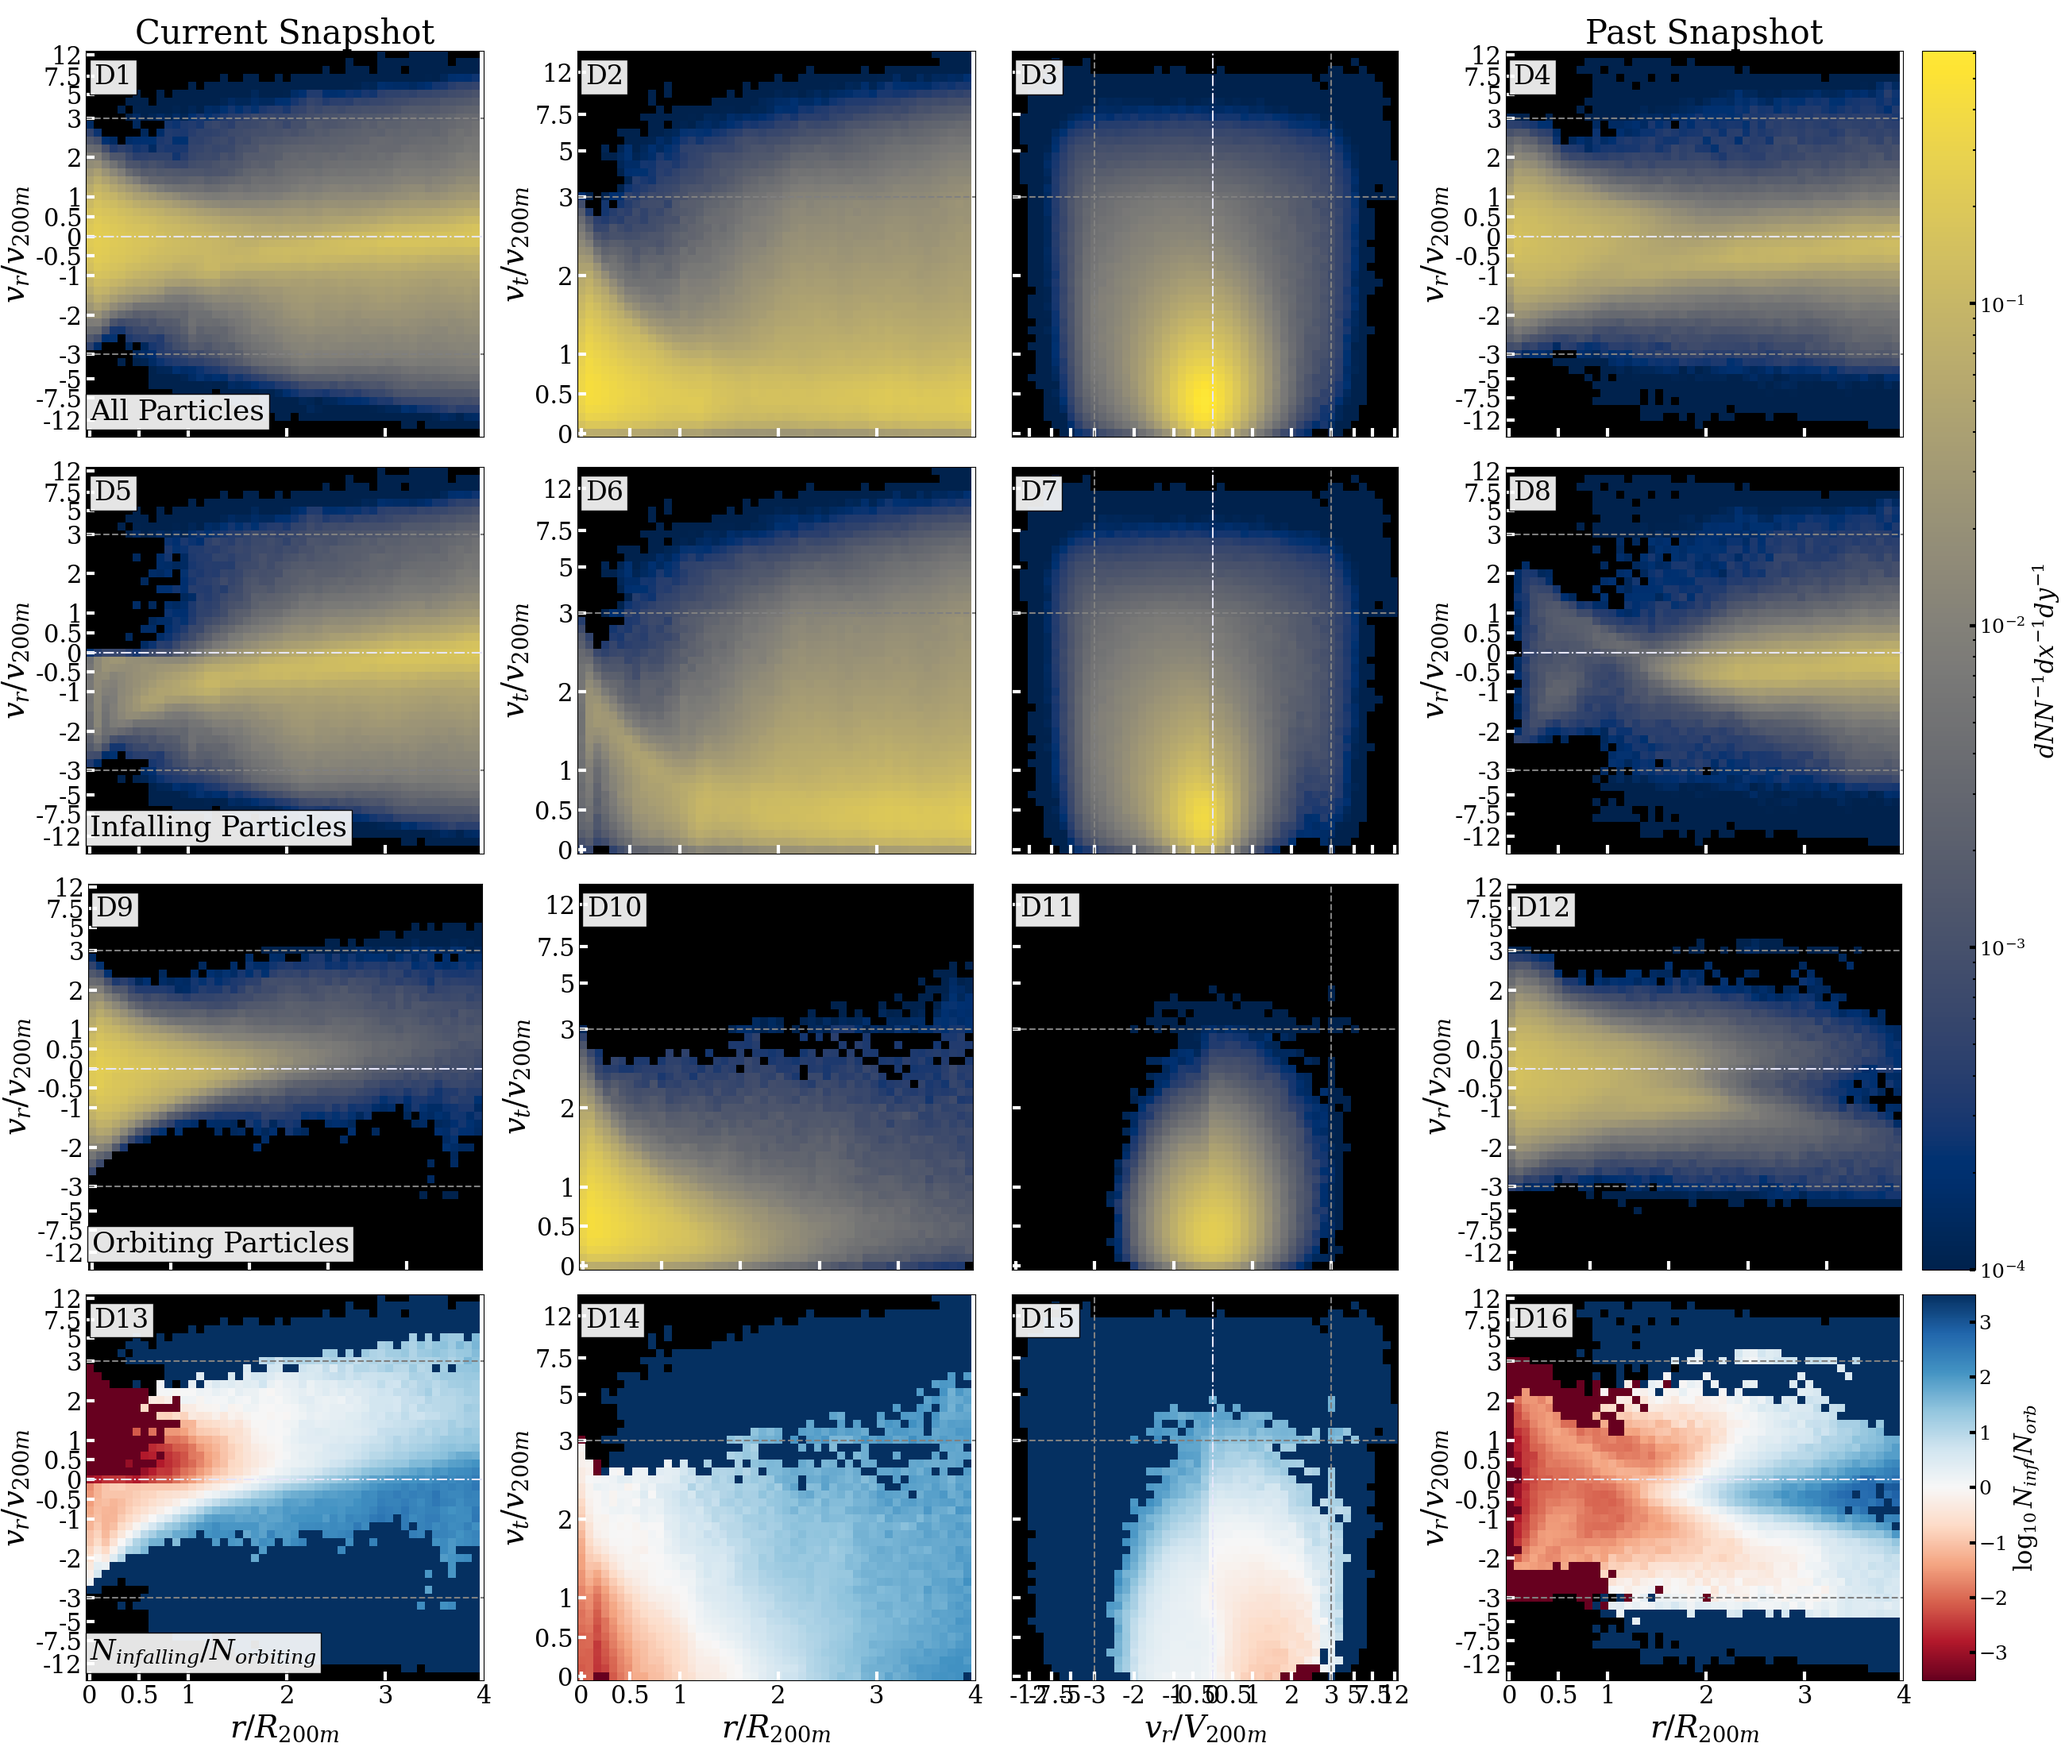
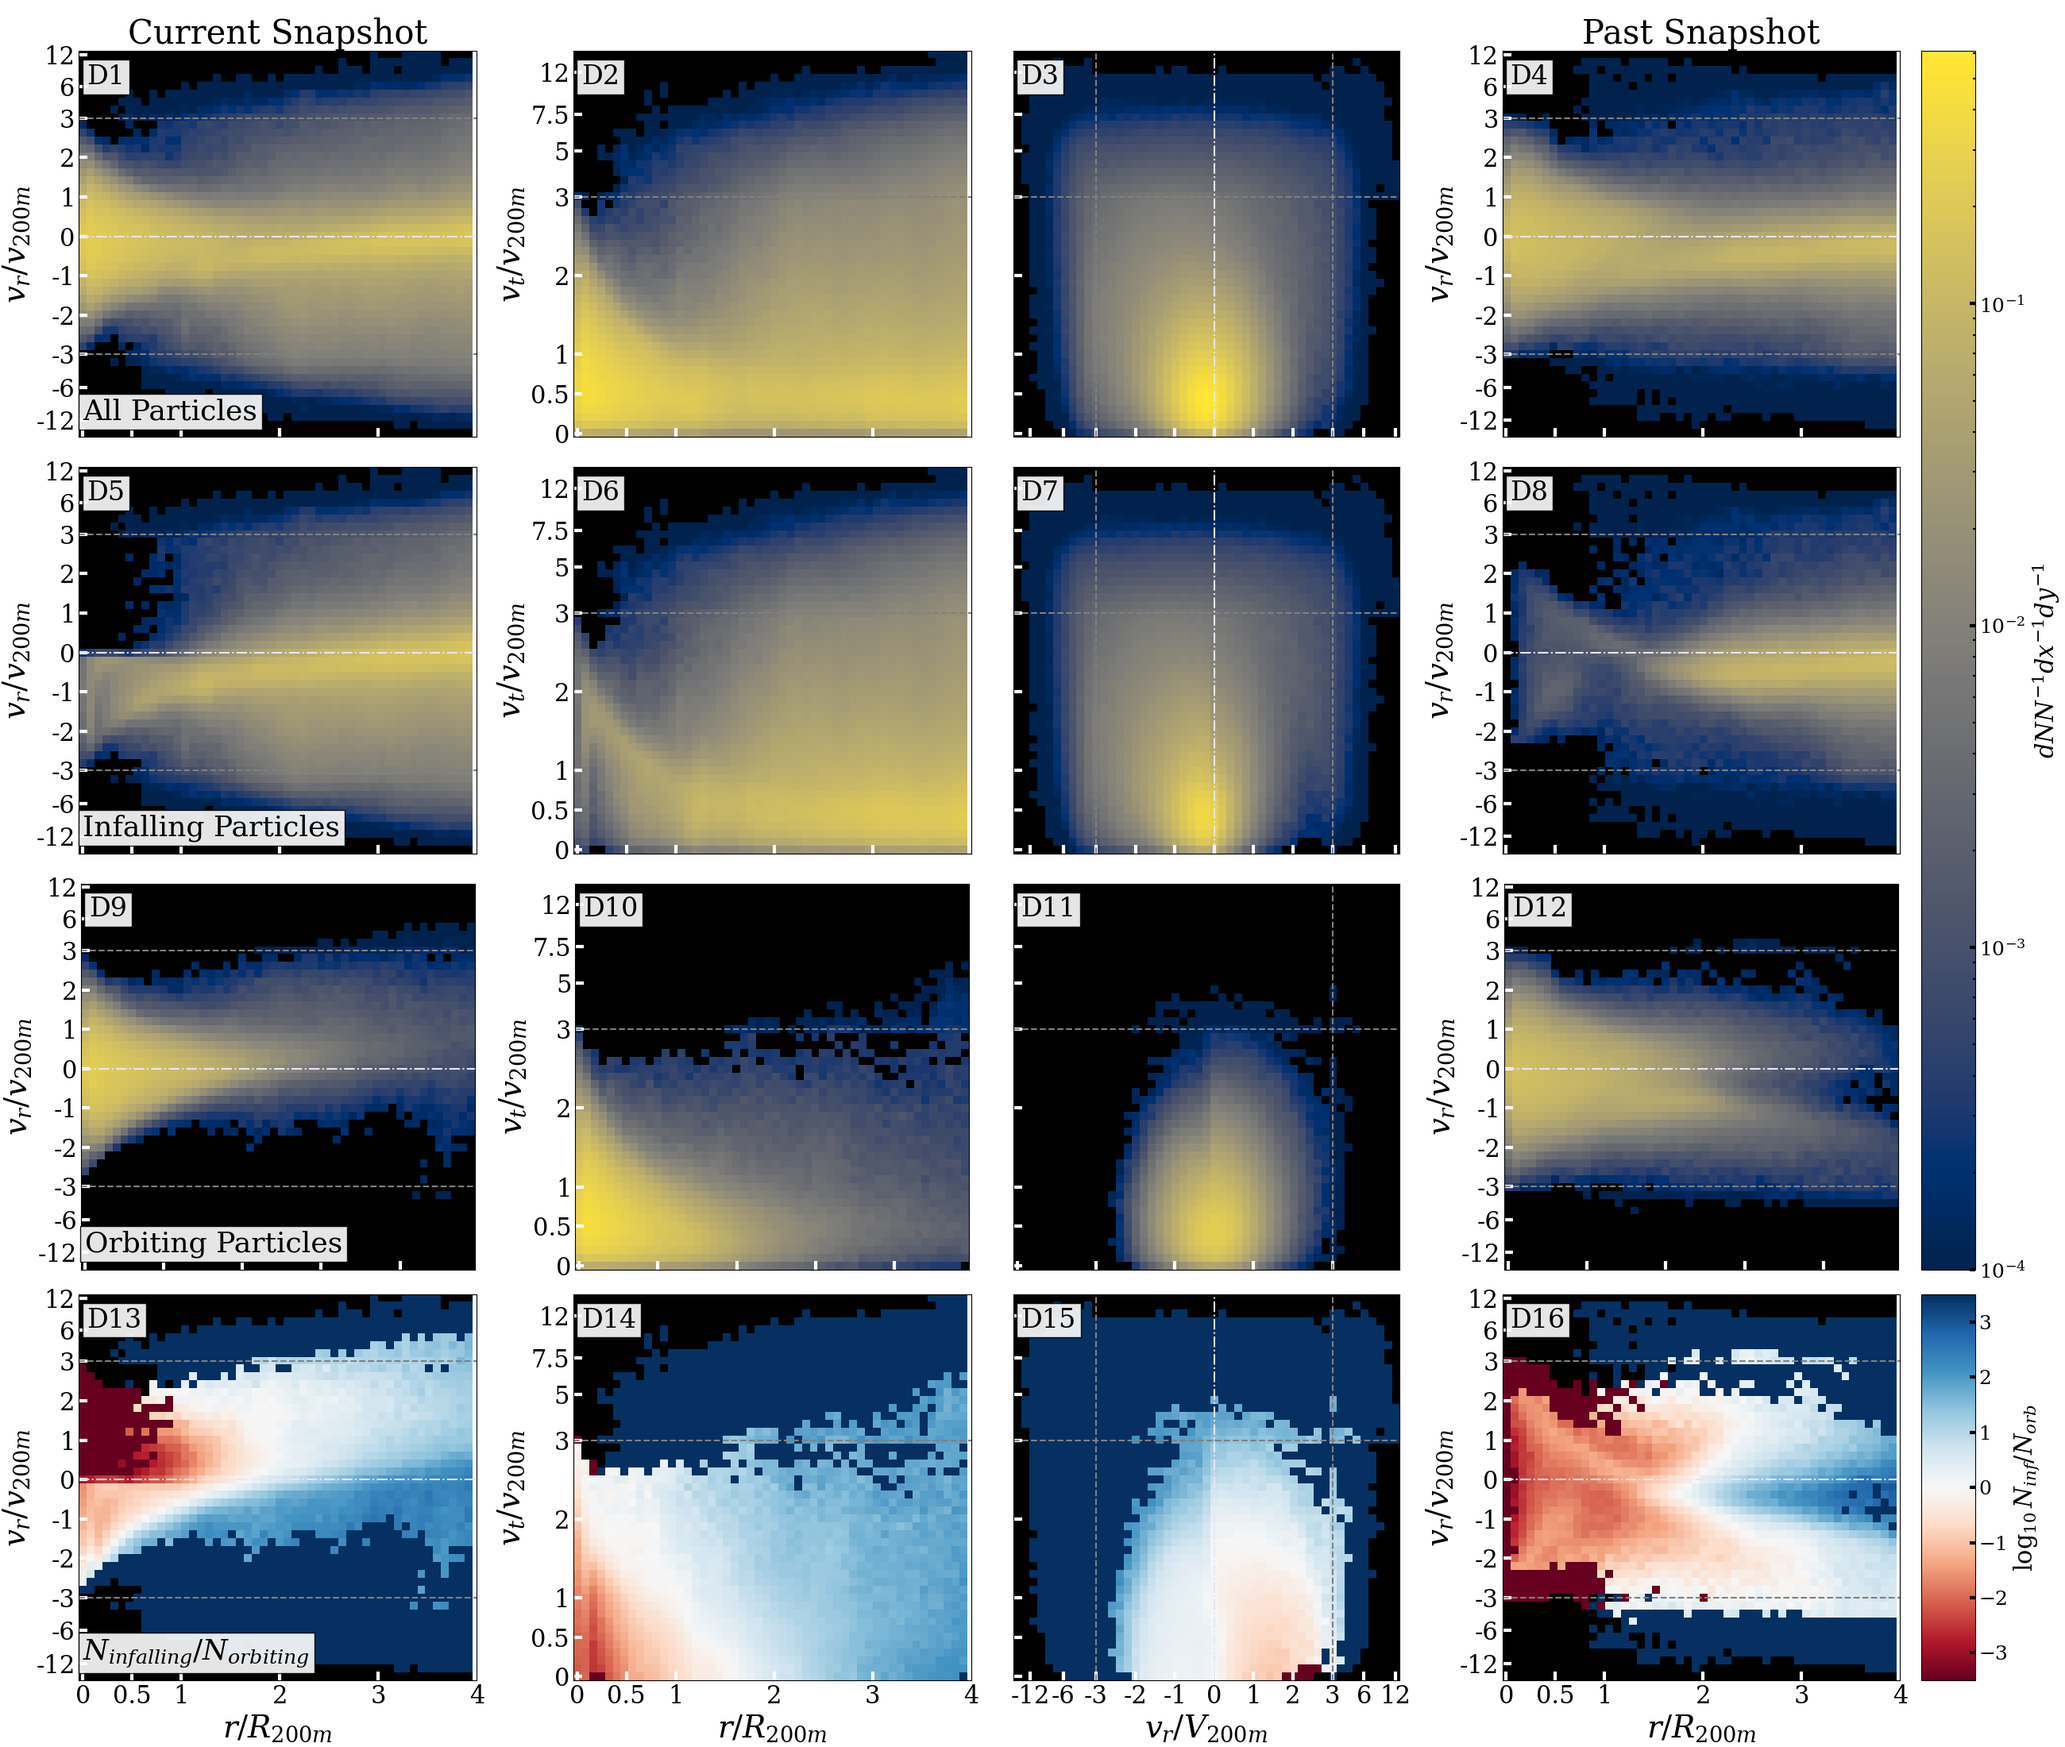
make tree error plots optional, update readme to hide unecessary info, update images used

diff --git a/src/train_model.py b/src/train_model.py
@@ -27,6 +27,7 @@ feature_columns = config_dict["TRAIN_MODEL"]["feature_columns"]
 target_column = config_dict["TRAIN_MODEL"]["target_column"]
 model_sims = config_dict["TRAIN_MODEL"]["model_sims"]
 model_type = config_dict["TRAIN_MODEL"]["model_type"]
+tree_err = config_dict["TRAIN_MODEL"]["tree_err"]
 
 retrain = config_dict["MISC"]["retrain_model"]
 
@@ -254,57 +255,59 @@ if __name__ == "__main__":
             bst.save_model(model_save_loc)
             save_pickle(model_info,model_fldr_loc + "model_info.pickle")
             
-            #TODO make this optional and document evaluation of model
-            #TODO see if it is possible to save the history
-            # Get accuracy at each boosting round
-            # Extract training and validation error (1 - accuracy) at each round
-            train_errors = history['train']['error']
-            test_errors = history['test']['error']
+        if tree_err:
+            with timed("Evaluate Tree Error"):
+                #TODO make this optional and document evaluation of model
+                #TODO see if it is possible to save the history
+                # Get accuracy at each boosting round
+                # Extract training and validation error (1 - accuracy) at each round
+                train_errors = history['train']['error']
+                test_errors = history['test']['error']
 
-            # Calculate accuracies
-            train_accuracies = [1 - error for error in train_errors]
-            test_accuracies = [1 - error for error in test_errors]
+                # Calculate accuracies
+                train_accuracies = [1 - error for error in train_errors]
+                test_accuracies = [1 - error for error in test_errors]
 
-            # Plot or analyze accuracy vs. number of trees (boosting rounds)
-            plt.plot(range(len(train_accuracies)), train_accuracies, label='Train Accuracy')
-            plt.plot(range(len(test_accuracies)), test_accuracies, label='Test Accuracy')
-            plt.xlabel('Number of Trees')
-            plt.ylabel('Accuracy')
-            plt.legend()
-            plt.savefig(gen_plot_save_loc + "train_test_acc.png")
+                # Plot or analyze accuracy vs. number of trees (boosting rounds)
+                plt.plot(range(len(train_accuracies)), train_accuracies, label='Train Accuracy')
+                plt.plot(range(len(test_accuracies)), test_accuracies, label='Test Accuracy')
+                plt.xlabel('Number of Trees')
+                plt.ylabel('Accuracy')
+                plt.legend()
+                plt.savefig(gen_plot_save_loc + "train_test_acc.png")
 
-            # You can also inspect the final accuracy after training
-            final_train_accuracy = train_accuracies[-1]
-            final_test_accuracy = test_accuracies[-1]
-            print(f"Final train accuracy: {final_train_accuracy}")
-            print(f"Final test accuracy: {final_test_accuracy}")
-            
-            
-            X_test_local = X_test.compute()
-            y_test_local = y_test.compute()
-            dtest = xgb.DMatrix(X_test_local, label=y_test_local)
+                # You can also inspect the final accuracy after training
+                final_train_accuracy = train_accuracies[-1]
+                final_test_accuracy = test_accuracies[-1]
+                print(f"Final train accuracy: {final_train_accuracy}")
+                print(f"Final test accuracy: {final_test_accuracy}")
+                
+                
+                X_test_local = X_test.compute()
+                y_test_local = y_test.compute()
+                dtest = xgb.DMatrix(X_test_local, label=y_test_local)
 
-            accuracies, times = evaluate_accuracy_and_speed(bst, dtest, max_trees=num_trees)
+                accuracies, times = evaluate_accuracy_and_speed(bst, dtest, max_trees=num_trees)
 
-            # Plot accuracy vs number of trees
-            plt.figure(figsize=(12, 6))
+                # Plot accuracy vs number of trees
+                plt.figure(figsize=(12, 6))
 
-            # Subplot for accuracy
-            plt.subplot(1, 2, 1)
-            plt.plot(range(1, 101), accuracies, label='Test Accuracy', color='blue')
-            plt.xlabel('Number of Trees')
-            plt.ylabel('Accuracy')
-            plt.legend()
+                # Subplot for accuracy
+                plt.subplot(1, 2, 1)
+                plt.plot(range(1, 101), accuracies, label='Test Accuracy', color='blue')
+                plt.xlabel('Number of Trees')
+                plt.ylabel('Accuracy')
+                plt.legend()
 
-            # Subplot for time
-            plt.subplot(1, 2, 2)
-            plt.plot(range(1, 101), times, label='Prediction Time', color='red')
-            plt.xlabel('Number of Trees')
-            plt.ylabel('Time (seconds)')
-            plt.legend()
+                # Subplot for time
+                plt.subplot(1, 2, 2)
+                plt.plot(range(1, 101), times, label='Prediction Time', color='red')
+                plt.xlabel('Number of Trees')
+                plt.ylabel('Time (seconds)')
+                plt.legend()
 
-            plt.tight_layout()
-            plt.savefig(gen_plot_save_loc + "tree_time_acc.png")
+                plt.tight_layout()
+                plt.savefig(gen_plot_save_loc + "tree_time_acc.png")
 
     
     client.close()

diff --git a/src/make_shap_plots.py b/src/make_shap_plots.py
@@ -30,13 +30,6 @@ model_type = config_dict["TRAIN_MODEL"]["model_type"]
 test_sims = config_dict["EVAL_MODEL"]["test_sims"]
 eval_datasets = config_dict["EVAL_MODEL"]["eval_datasets"]
 
-reduce_rad = config_dict["OPTIMIZE"]["reduce_rad"]
-reduce_perc = config_dict["OPTIMIZE"]["reduce_perc"]
-weight_rad = config_dict["OPTIMIZE"]["weight_rad"]
-min_weight = config_dict["OPTIMIZE"]["min_weight"]
-opt_wghts = config_dict["OPTIMIZE"]["opt_wghts"]
-opt_scale_rad = config_dict["OPTIMIZE"]["opt_scale_rad"]
-
 if sim_cosmol == "planck13-nbody":
     cosmol = cosmology.setCosmology('planck13-nbody',{'flat': True, 'H0': 67.0, 'Om0': 0.32, 'Ob0': 0.0491, 'sigma8': 0.834, 'ns': 0.9624, 'relspecies': False})
 else:
@@ -54,9 +47,11 @@ if __name__ == '__main__':
         model_save_loc = model_fldr_loc + model_name + ".json"
         gen_plot_save_loc = model_fldr_loc + "plots/"
 
+        # Try loading the model if it can't be thats an error!
         try:
             bst = xgb.Booster()
             bst.load_model(model_save_loc)
+            bst.set_param({"device": "cuda:0"})
             print("Loaded Model Trained on:",model_sims)
         except:
             print("Couldn't load Booster Located at: " + model_save_loc)

diff --git a/README.md b/README.md
@@ -1,21 +1,22 @@
 # ATHENA: pArticle classificaTion with macHine lEarning N-body simulAtions
-# Current State as of 04//2025
 
 ## Data Requirements
 You need the particle data from a GADGET simulation and the .hdf5 output file from SPARTA. We used the Erebos suite of simulations for our work which is freely available at http://erebos.astro.umd.edu/erebos/. The snapshot files are found under snaps/ and the halo catalogues under rockstar_cats_200m_bnd. The naming scheme of of these simulations is what is expected for the code.
 
 ## Python Dependencies
 - I make use of a customized shap fork that is also publicly available at https://github.com/ZevVladimir/shap. This is done to just allow for ease of adjusting different fontsizes as well as adjusting certain features in the plots that I want hidden or not. This should only impact code run in make_shap_plots.py. 
-- https://docs.rapids.ai/install/ 
-- Use the requirements.txt
-- pygadgetreader: https://github.com/jveitchmichaelis/pygadgetreader
-- SPARTA: https://bdiemer.bitbucket.io/sparta/ 
+- We ue Python 3.10.10 and CUDA 12
+- For most of the python packages use the requirements.txt file to install
+- pygadgetreader needs to be cloned and installed from this repository: https://github.com/jveitchmichaelis/pygadgetreader
+- SPARTA needs to be cloned and installed from this repository: https://bdiemer.bitbucket.io/sparta/ 
+- For dask packages that make use of CUDA you can find alternative ways to install at: https://docs.rapids.ai/install/ 
+    - Requires Python 3.10, 3.11, or 3.12
 
 ## Creating the Datasets
 
 ### Snapshot Data Requirements \[SNAP_DATA\]
 
-Currently only GADGET simulation data is usable by the code as we use Pygadget reader to load particle data
+Currently only GADGET simulation data is usable by the code as we use Pygadgetreader to load particle data
 
 To see an example of snapshot data formatting look at a simulatio in the snaps/ folder at http://erebos.astro.umd.edu/erebos/ 
 
@@ -49,7 +50,8 @@ The halos are split into training and testing dataset based off *test_dset_frac*
 
 After the \[DSET_CREATE\], \[SNAP_DATA\], and \[SPARTA_DATA\] parameters are set (and potentially \[MISC\] parameters as well) you are ready to create the datasets. This is done by simply running the python code: `python3 ./src/gen_ML_dsets.py`
 
-### Saved Information
+<details>
+### Saved Dataset Information
 
 The code will generate several .h5 files of the saved information within the specified output location *ML_dset_path* in the subdirectory of ~/*ML_dset_path*/ + *curr_sparta_file*_\<primary snap number\>to\<secondary snap number\>/ and then there will be a Train/ and Test/ folder each of which contain folders for halo information and particle information.
 
@@ -90,6 +92,8 @@ Information from the config file and information generated about the snapshots u
     8. rho_m: The value of the mean density of the university at this snapshot (calculated from redshift with colossus)
 11. c_snap_info: The same parameters as in p_snap_info but for the secondary (comparison) snapshot
     
+</details>
+
 ## Training the Model
 
 ### Initial \[TRAIN_MODEL\] Config Parameters
@@ -106,19 +110,26 @@ The name of the folder where each model is saved is slightly complicated in orde
 
 /*path_path_to_models*/\<combined and shortened name of simulations\>/*model_type*/
 
-If you use some of the additional optimization methods the path can be changed, see section: Optimization of Model for details
+If *tree_err* is enabled plots will be created that show the accuracy of the model depending on the number of trees used as well as how fast predictions are made with the number of trees.
 
-### Optimization of Model
+<details>
+### Optimization of Model (WIP)
+
+#TODO make the name change optional and instead encourage manually changing the model's name
+If you use some of the additional optimization methods the path can be changed as they include information about the optimization parameters in the name to automatically differentiate the models. 
 
 There are some elements within the code intended to provide ways to tune the dataset to optimize the accuracy of the model. We found that these ended up being unecessary for our data to train an accurate model. These might be potentially fully fleshed out and integrated in the future.
 
 #TODO finish this section
 
+</details>
+
 ### Running the code: train_model.py
 
 After the \[TRAIN_MODEL\] parameters are set (and potentially \[MISC\] and \[DASK_CLIENT\] parameters as well) you are ready to create the datasets. This is done by simply running the python code: `python3 ./src/train_model.py`
 
-### Saved Information
+<details>
+### Saved Model Information
 
 As mentioned all saved information goes to the path for the specific model. The model's json file is saved as well as general information about the model is put in a model_info.pickle.
 
@@ -131,6 +142,8 @@ rdml(){
 ```
 
 To use this function you simply do `rdml /path/to/model_info.pickle`
+
+</details>
 
 ## Evaluating the Model
 
@@ -163,16 +176,20 @@ All of the following evaluation plots are for a model trained solely on the cbol
 
 #### Particle Distribution
 
-![dens_prf](https://github.com/ZevVladimir/ATHENA/blob/main/imgs/test_ptl_distr.png)
+![ptl_dist](https://github.com/ZevVladimir/ATHENA/blob/main/imgs/test_ptl_distr.png)
 
 #### Scaled Misclassified Plot
 
-![dens_prf](https://github.com/ZevVladimir/ATHENA/blob/main/imgs/test_scaled_miss_class.png)
+![scale_miss](https://github.com/ZevVladimir/ATHENA/blob/main/imgs/test_scaled_miss_class.png)
 
 ### make_shap_plots.py
 
 This creates the SHAP beeswarm plots which can be selected for by filling out the dictionary shown in the file to filter which particles are displayed. `python3 ./src/make_shap_plots.py`
 These plots allow us to evaluate how the model classifies certain populations of particles. This is further explored in Section 4.1 of our paper [1].
+
+This example plot compares the shap values for a random sample of particles in the entire dataset and particles that do not have a secondary snapshot.
+
+![comb_shap](https://github.com/ZevVladimir/ATHENA/blob/main/imgs/test_comb_shap.png)
 
 ## Phase Space Cut Method
 
